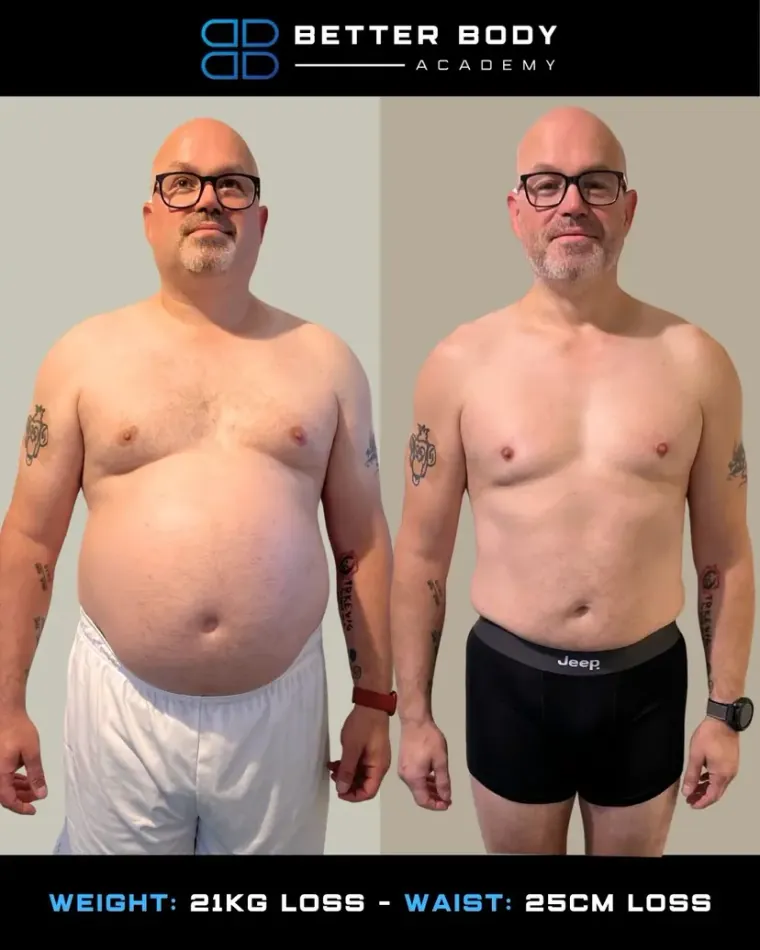
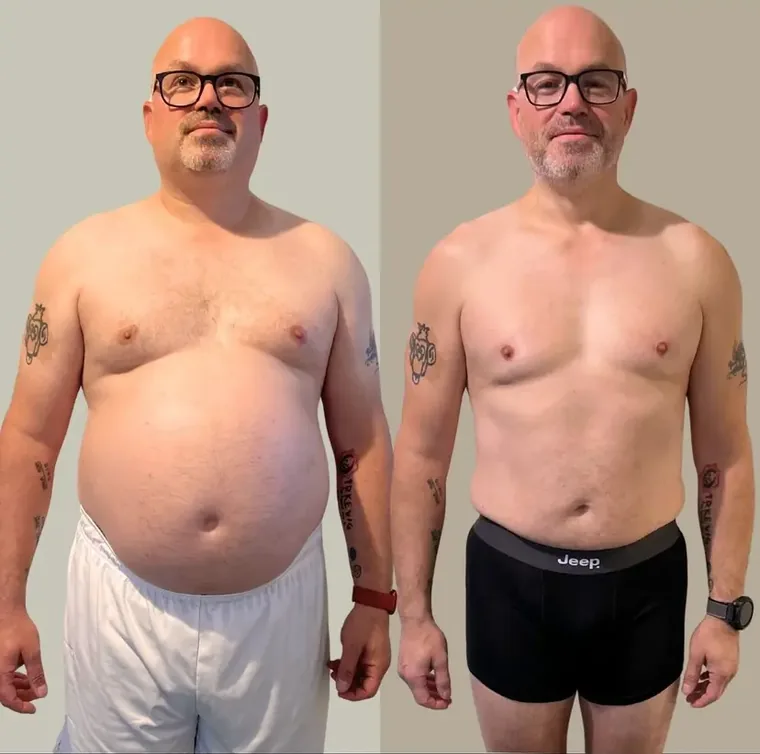
Use de-branded before/after and size the Man card to the image
- Regenerate man-before-after.webp from the source with the BBA header bar
  and the 21kg-loss banner cropped off (clean ~1:1 image)
- Give the choice cards a square aspect-ratio matching the photo, so it fills
  the card edge-to-edge (object-fit:cover) with no bars and no cropping
- Drop the blurred-fill layer (no longer needed)

Claude-Session: https://claude.ai/code/session_01U2zp3E6dL6ARWP29RpcTr8

diff --git a/index.html b/index.html
@@ -162,6 +162,7 @@
   /* ---------- choice cards ---------- */
   .cards{
     display:flex;
+    align-items:flex-start;
     gap:clamp(10px,1.6vw,20px);
     width:100%;
   }
@@ -169,7 +170,7 @@
   .card{
     position:relative;
     flex:1 1 0;
-    height:clamp(300px,52vh,460px);
+    aspect-ratio:760 / 754;
     border-radius:18px;
     border:1px solid var(--glass-border);
     overflow:hidden;
@@ -193,34 +194,23 @@
       linear-gradient(195deg, #181818 0%, #0b0b0b 72%);
   }
 
-  /* real transformation photo filling a choice card */
-  .card-photo,
-  .card-photo-bg{
+  /* full before/after photo filling the card (card matches the image aspect) */
+  .card-photo{
     position:absolute;
     inset:0;
     width:100%;
     height:100%;
-  }
-  /* blurred copy fills the card so the full portrait has no empty side bars */
-  .card-photo-bg{
     object-fit:cover;
-    transform:scale(1.12);
-    filter:blur(26px) brightness(.42) saturate(1.1);
+    object-position:center;
     z-index:0;
-  }
-  /* the full before/after, shown complete (no cropping) */
-  .card-photo{
-    object-fit:contain;
-    object-position:50% 42%;
-    z-index:1;
   }
   /* readability scrim so the label stays legible over the photo */
   .card--photo::after{
     content:"";
     position:absolute;
     inset:0;
-    background:linear-gradient(180deg, rgba(10,10,10,.05) 0%, rgba(10,10,10,.10) 55%, rgba(10,10,10,.78) 100%);
-    z-index:2;
+    background:linear-gradient(180deg, rgba(10,10,10,.04) 0%, rgba(10,10,10,.10) 58%, rgba(10,10,10,.80) 100%);
+    z-index:1;
     pointer-events:none;
   }
 
@@ -394,7 +384,7 @@
     }
     .card{
       flex:0 0 auto;
-      height:clamp(340px,46vh,440px);
+      height:auto;
     }
     /* symbol watermark sits lower so it doesn't crowd the label */
     .symbol{transform:translate(-50%,-64%);width:clamp(92px,22vw,120px)}
@@ -405,7 +395,7 @@
     h1{font-size:clamp(28px,8.6vw,38px);max-width:18ch}
     .sub{font-size:14px;max-width:38ch}
     .prompt{letter-spacing:4px}
-    .card{border-radius:15px;height:clamp(320px,44vh,400px)}
+    .card{border-radius:15px;height:auto}
     .card-foot{padding:14px 16px}
     /* proof becomes a tidy 2x2 grid, no dividers */
     .proof{
@@ -441,7 +431,6 @@
 
         <!-- MAN -->
         <a class="card card-men card--photo" href="men.html" aria-label="I am a man — see my transformation plan">
-          <img class="card-photo-bg" src="man-before-after.webp" alt="" aria-hidden="true" loading="lazy">
           <img class="card-photo" src="man-before-after.webp"
             alt="Real Better Body Academy client — 21kg lost, 25cm off the waist" loading="lazy">
           <div class="card-foot">